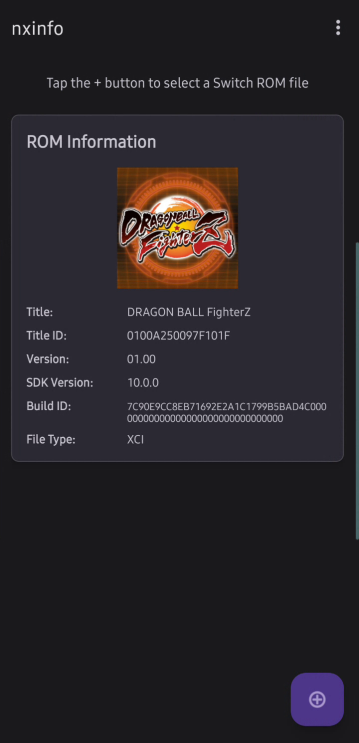
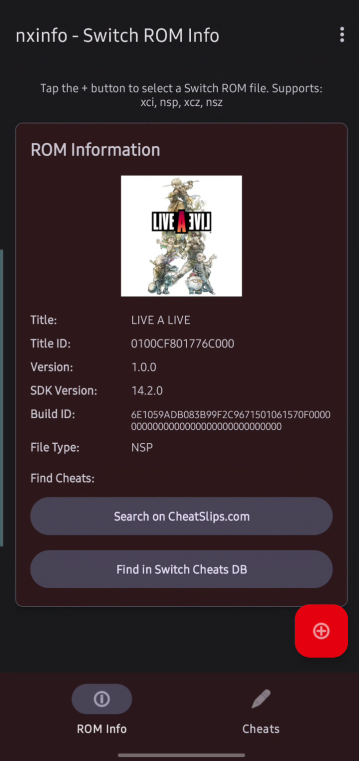
readme

diff --git a/README.md b/README.md
@@ -2,14 +2,21 @@
 
 A simple android app that parses switch nsp, xci files and display the files' meta data.
 
-From time to time, I need to figure out the build ids of a switch game so that I can download cheats for them. (https://www.cheatslips.com/)
+It can also search for cheat file and export them into mods/cheats folder structure that the Citron/Eden emulator on android can load. 
+
+# Info
+
+From time to time, I need to figure out the build ids of a switch game so that I can download the right mods/cheats for the game. (https://www.cheatslips.com/)
 I have found that Ryujinx emulator https://ryujinx.app/ and NxFileViewer https://github.com/Myster-Tee/NxFileViewer can parse and display the build ids but neither of them are available on android.
 
-Often times I play switch games on my android tablets and I got tired of copying the switch files over to a computer just to figure out the build id, so I created this app for myself. 
+Often times I play switch games on my android tablets and I got tired of copying the switch files over to a computer just to figure out the build id, so I created this app for myself.
 
-Download apk [https://github.com/jayl-dev/nxinfo/releases/download/1.0/nxinfo.apk]
+If you have similar needs for android, feel free to take the codes and/or the apk and do whatever you want with it.
+
+Download apk [https://github.com/jayl-dev/nxinfo/releases/download/1.1/nxinfo.apk]
 
 ![nxinfo](screenshot.png)
+![nxinfo](screenshot2.png)
 
 # Credits
 
@@ -26,5 +33,3 @@ https://github.com/jakcron/liblz4.git
 https://github.com/jakcron/libpietendo.git
 
 Most of the android UI codes are generated because AI can write much faster than I can :) 
-
-If you have similar needs for android, feel free to take the codes and/or the apk and do whatever you want with it.
